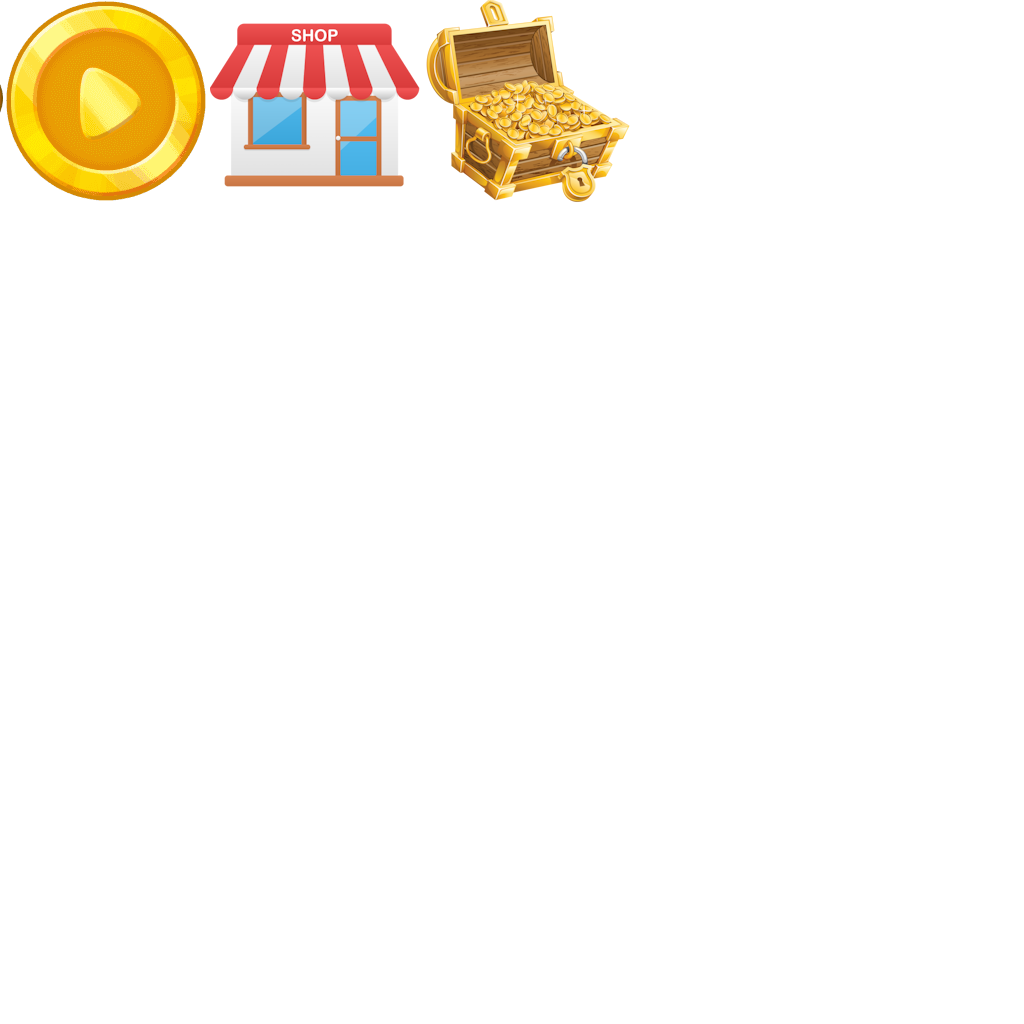
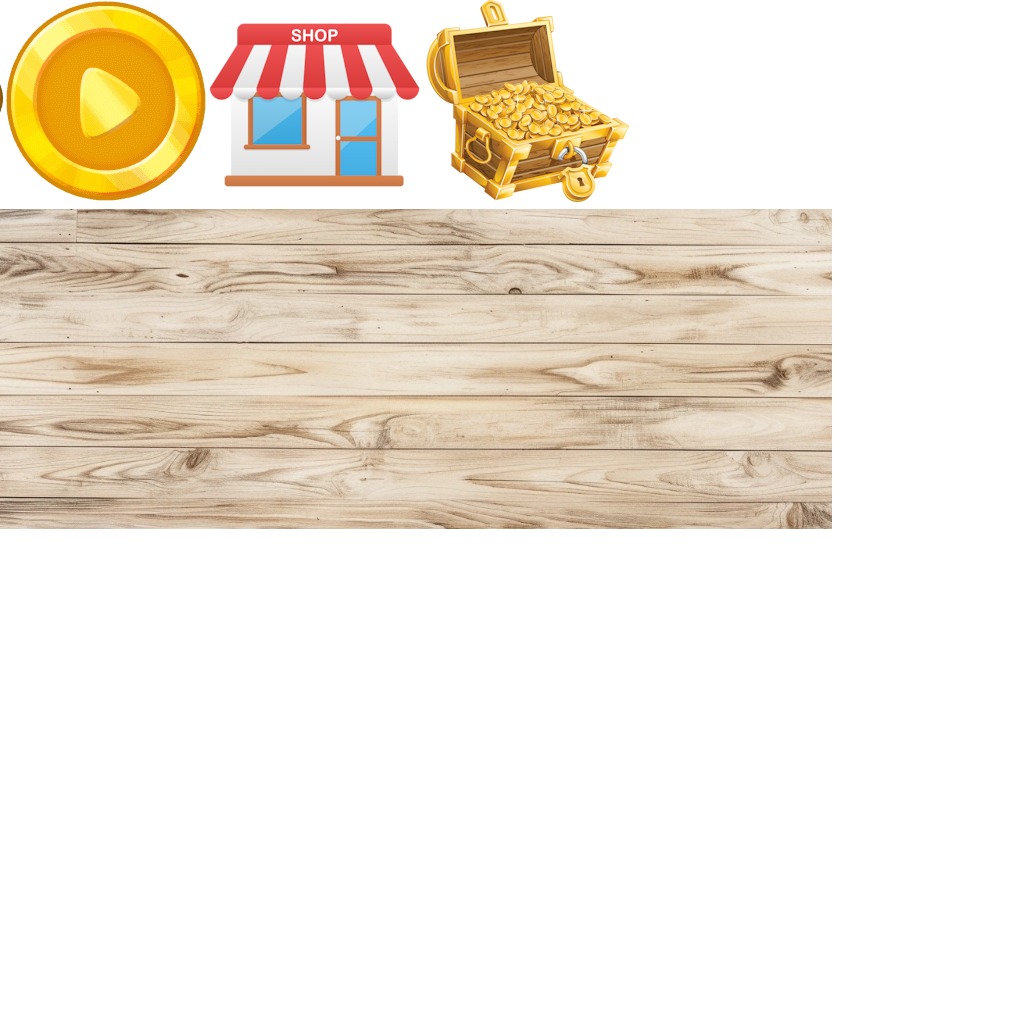
- изменение интерфейса, - fix поломка генератора после окончания энергии

Changed region(s): [[0.0, 0.1875, 0.8125, 0.5312]]

diff --git a/core/src/com/merge/game/scenes/SceneGame.java b/core/src/com/merge/game/scenes/SceneGame.java
@@ -68,6 +68,7 @@ public class SceneGame extends Scene {
         initTrash();
         initClear();
         initTasks();
+        System.out.println("here");
         //initBonus();
     }
 
@@ -78,7 +79,7 @@ public class SceneGame extends Scene {
         updateTopPanel();
         updateTasks();
         updateClearButton();
-        updateBonuses();
+        updateBonusButtons();
         updateGlobal();
     }
 
@@ -128,11 +129,9 @@ public class SceneGame extends Scene {
     }
 
     private void fixGenerator(MergeItem item) {
-        if(item.getGameObjectType() != GameObjectType.GENERATE){
-            return;
+        if(item.getGameObjectType() == GameObjectType.GENERATE){
+            item.fixGenerator();
         }
-
-        item.fixGenerator();
     }
 
     private void generateMaxLevelItems() {
@@ -410,7 +409,7 @@ public class SceneGame extends Scene {
         }
     }
 
-    private void updateBonuses() {
+    private void updateBonusButtons() {
 
         for (BonusButton bonusButton : _buttonsBonus) {
             if(bonusButton.isPressed()){
@@ -465,7 +464,7 @@ public class SceneGame extends Scene {
         
         //на том же месте
         if (_items[i][j] == _activeObject) {
-            createItems(_activeObject);
+            createItems();
             returnActiveObject();
         } else if (_items[i][j] == null) {
             moveItem(i, j);
@@ -526,24 +525,26 @@ public class SceneGame extends Scene {
         _items[i][j] = _activeObject;
     }
 
-    private void createItems(MergeItem generateObject) {
+    private void createItems() {
         //if(_activeObject.getMaxCount() > 0 && energyCount > 0){
-        if (_scoreCount > 0 && generateObject.getEnergy() != 0) {
+        if (_scoreCount > 0 && _activeObject.getEnergy() > 0) {
             boolean itemIsCreate = false;
             do {
                 int x = Tools.randomInt(GRID_COUNT_WIDTH);
                 int y = Tools.randomInt(GRID_COUNT_HEIGHT);
                 if (_items[x][y] == null) {
-                    if(generateObject.getGenerateType() == GenerateItemType.RANDOM){
+                    if(_activeObject.getGenerateType() == GenerateItemType.RANDOM){
                         _items[x][y] = createBonusItem(x, y);
                     }else {
                         int level = Tools.randomInt(1, 3);
-                        int type = Tools.randomInt(1, GenerateItemType.getTexture(generateObject.getGenerateType(), 1).length);
-                        _items[x][y] = new MergeItem(_grid[x][y].getX(), _grid[x][y].getY(), _grid[x][y].getWidth(), _grid[x][y].getHeight(), x, y, type, level, generateObject.getGenerateType(), GameObjectType.MERGE);
+                        int type = Tools.randomInt(1, GenerateItemType.getTexture(_activeObject.getGenerateType(), 1).length);
+                        _items[x][y] = new MergeItem(_grid[x][y].getX(), _grid[x][y].getY(), _grid[x][y].getWidth(), _grid[x][y].getHeight(), x, y, type, level, _activeObject.getGenerateType(), GameObjectType.MERGE);
                     }
                     itemIsCreate = true;
                     _scoreCount--;
-                    generateObject.decrementEnergy();
+                    System.out.println(_activeObject.getEnergy() + "!");
+                    _activeObject.decrementEnergy();
+                    System.out.println(_activeObject.getEnergy() + "!!!");
                     addChild(_items[x][y]);
                 }
 

diff --git a/core/src/com/merge/game/scenes/SceneMain.java b/core/src/com/merge/game/scenes/SceneMain.java
@@ -11,12 +11,13 @@ import com.merge.game.resources.textures.Textures;
 public class SceneMain extends Scene{
 
     private Background _background;
-    private DisplayObject _panelShop, _panelPlay, _panelRewards;
+    private DisplayObject _mainPanel, _panelShop, _panelPlay, _panelRewards;
     private Button _shop, _play, _rewards;
 
     public SceneMain() {
         GameSound.playBackgroundMusic(GameSound.mainTheme);
         initBackground();
+        initMainPanel();
         initPanels();
         initButtons();
     }
@@ -26,21 +27,29 @@ public class SceneMain extends Scene{
         addChild(_background);
     }
 
+    private void initMainPanel() {
+        _mainPanel = new DisplayObject(TextureItems.mainScenePanel);
+        addChild(_mainPanel);
+        _mainPanel.scaleToFit(0.7f, 0.6f);
+        _mainPanel.setCenterCoeff(0.5f, 0.4f);
+    }
+
     private void initPanels() {
+
         _panelShop = new DisplayObject();
-        addChild(_panelShop);
+        _mainPanel.addChild(_panelShop);
         _panelShop.setSizeOfParent();
         _panelShop.setWidth(_panelShop.getParentWidth() / 3);
         _panelShop.setX(0);
 
         _panelPlay = new DisplayObject();
-        addChild(_panelPlay);
+        _mainPanel.addChild(_panelPlay);
         _panelPlay.setSizeOfParent();
         _panelPlay.setWidth(_panelShop.getParentWidth() / 3);
         _panelPlay.setX(_panelShop.getWidth());
 
         _panelRewards = new DisplayObject();
-        addChild(_panelRewards);
+        _mainPanel.addChild(_panelRewards);
         _panelRewards.setSizeOfParent();
         _panelRewards.setWidth(_panelShop.getParentWidth() / 3);
         _panelRewards.setX(_panelShop.getWidth() + _panelPlay.getWidth());

diff --git a/core/src/com/merge/game/resources/textures/TextureItems.java b/core/src/com/merge/game/resources/textures/TextureItems.java
@@ -8,7 +8,7 @@ public class TextureItems {
     public static TextureRegion buttonStart, generateKettle, score, gold, level, trash, clear,
             taskField, taskAbledButton, taskDisabledButton, fade, broken, gridPanel;
     public static TextureRegion bonusPanel, bonusField, bonusFixGenerate, bonusMaxItem, bonusRandomItem, bonusRandomGenerator;
-    public static TextureRegion mainScenePlay, mainSceneShop, mainSceneRewards;
+    public static TextureRegion mainScenePanel, mainScenePlay, mainSceneShop, mainSceneRewards;
     public static TextureRegion[] gridCell, kettle1, kettle2, kettle3, kettle4, kettle5;
     public static TextureRegion[] amulet1, amulet2, amulet3, amulet4;
     public static TextureRegion[] potion1, potion2, potion3, potion4;
@@ -39,6 +39,7 @@ public class TextureItems {
 
     private static void initMain(){
         Texture texture = Textures.mainScene;
+        mainScenePanel = new TextureRegion(texture, 0, 209, 832, 320);
         mainScenePlay = new TextureRegion(texture, 0, 0, 210, 210);
         mainSceneShop = new TextureRegion(texture, 210 * 1, 0, 210, 210);
         mainSceneRewards = new TextureRegion(texture, 210 * 2, 0, 210, 210);

diff --git a/core/src/com/merge/game/resources/textures/Textures.java b/core/src/com/merge/game/resources/textures/Textures.java
@@ -15,7 +15,7 @@ public class Textures {
 
         texDisplacement = loadTexture("scenes/game/Displacement.jpg", true);
         TexBackground = loadTextureMipmap("scenes/start/background.jpg", true);
-        TexBackgroundMain =  loadTextureMipmap("scenes/main/background.png", true);
+        TexBackgroundMain =  loadTextureMipmap("scenes/main/background2.jpg", true);
         TexBackgroundGame = loadTextureMipmap("scenes/game/background.jpg", true);
         fields = loadTextureMipmap("scenes/game/Fields.png", true);
         panels = loadTextureMipmap("scenes/game/Panels.png", true);

diff --git a/core/src/com/merge/game/objects/grid/MergeItem.java b/core/src/com/merge/game/objects/grid/MergeItem.java
@@ -112,11 +112,12 @@ public class MergeItem extends GridObject {
     }
 
     private void updateGenerator(){
-        if(getGameObjectType() == GameObjectType.GENERATE && _energy == 0){
+        if(getGameObjectType() == GameObjectType.GENERATE && _energy <= 0){
             brokeItem();
-        }else if(!_isBroken) {
-            fixItem();
         }
+        /*else if(!_isBroken) {
+            fixItem();
+        }*/
     }
 
     public void updateDragging() {
